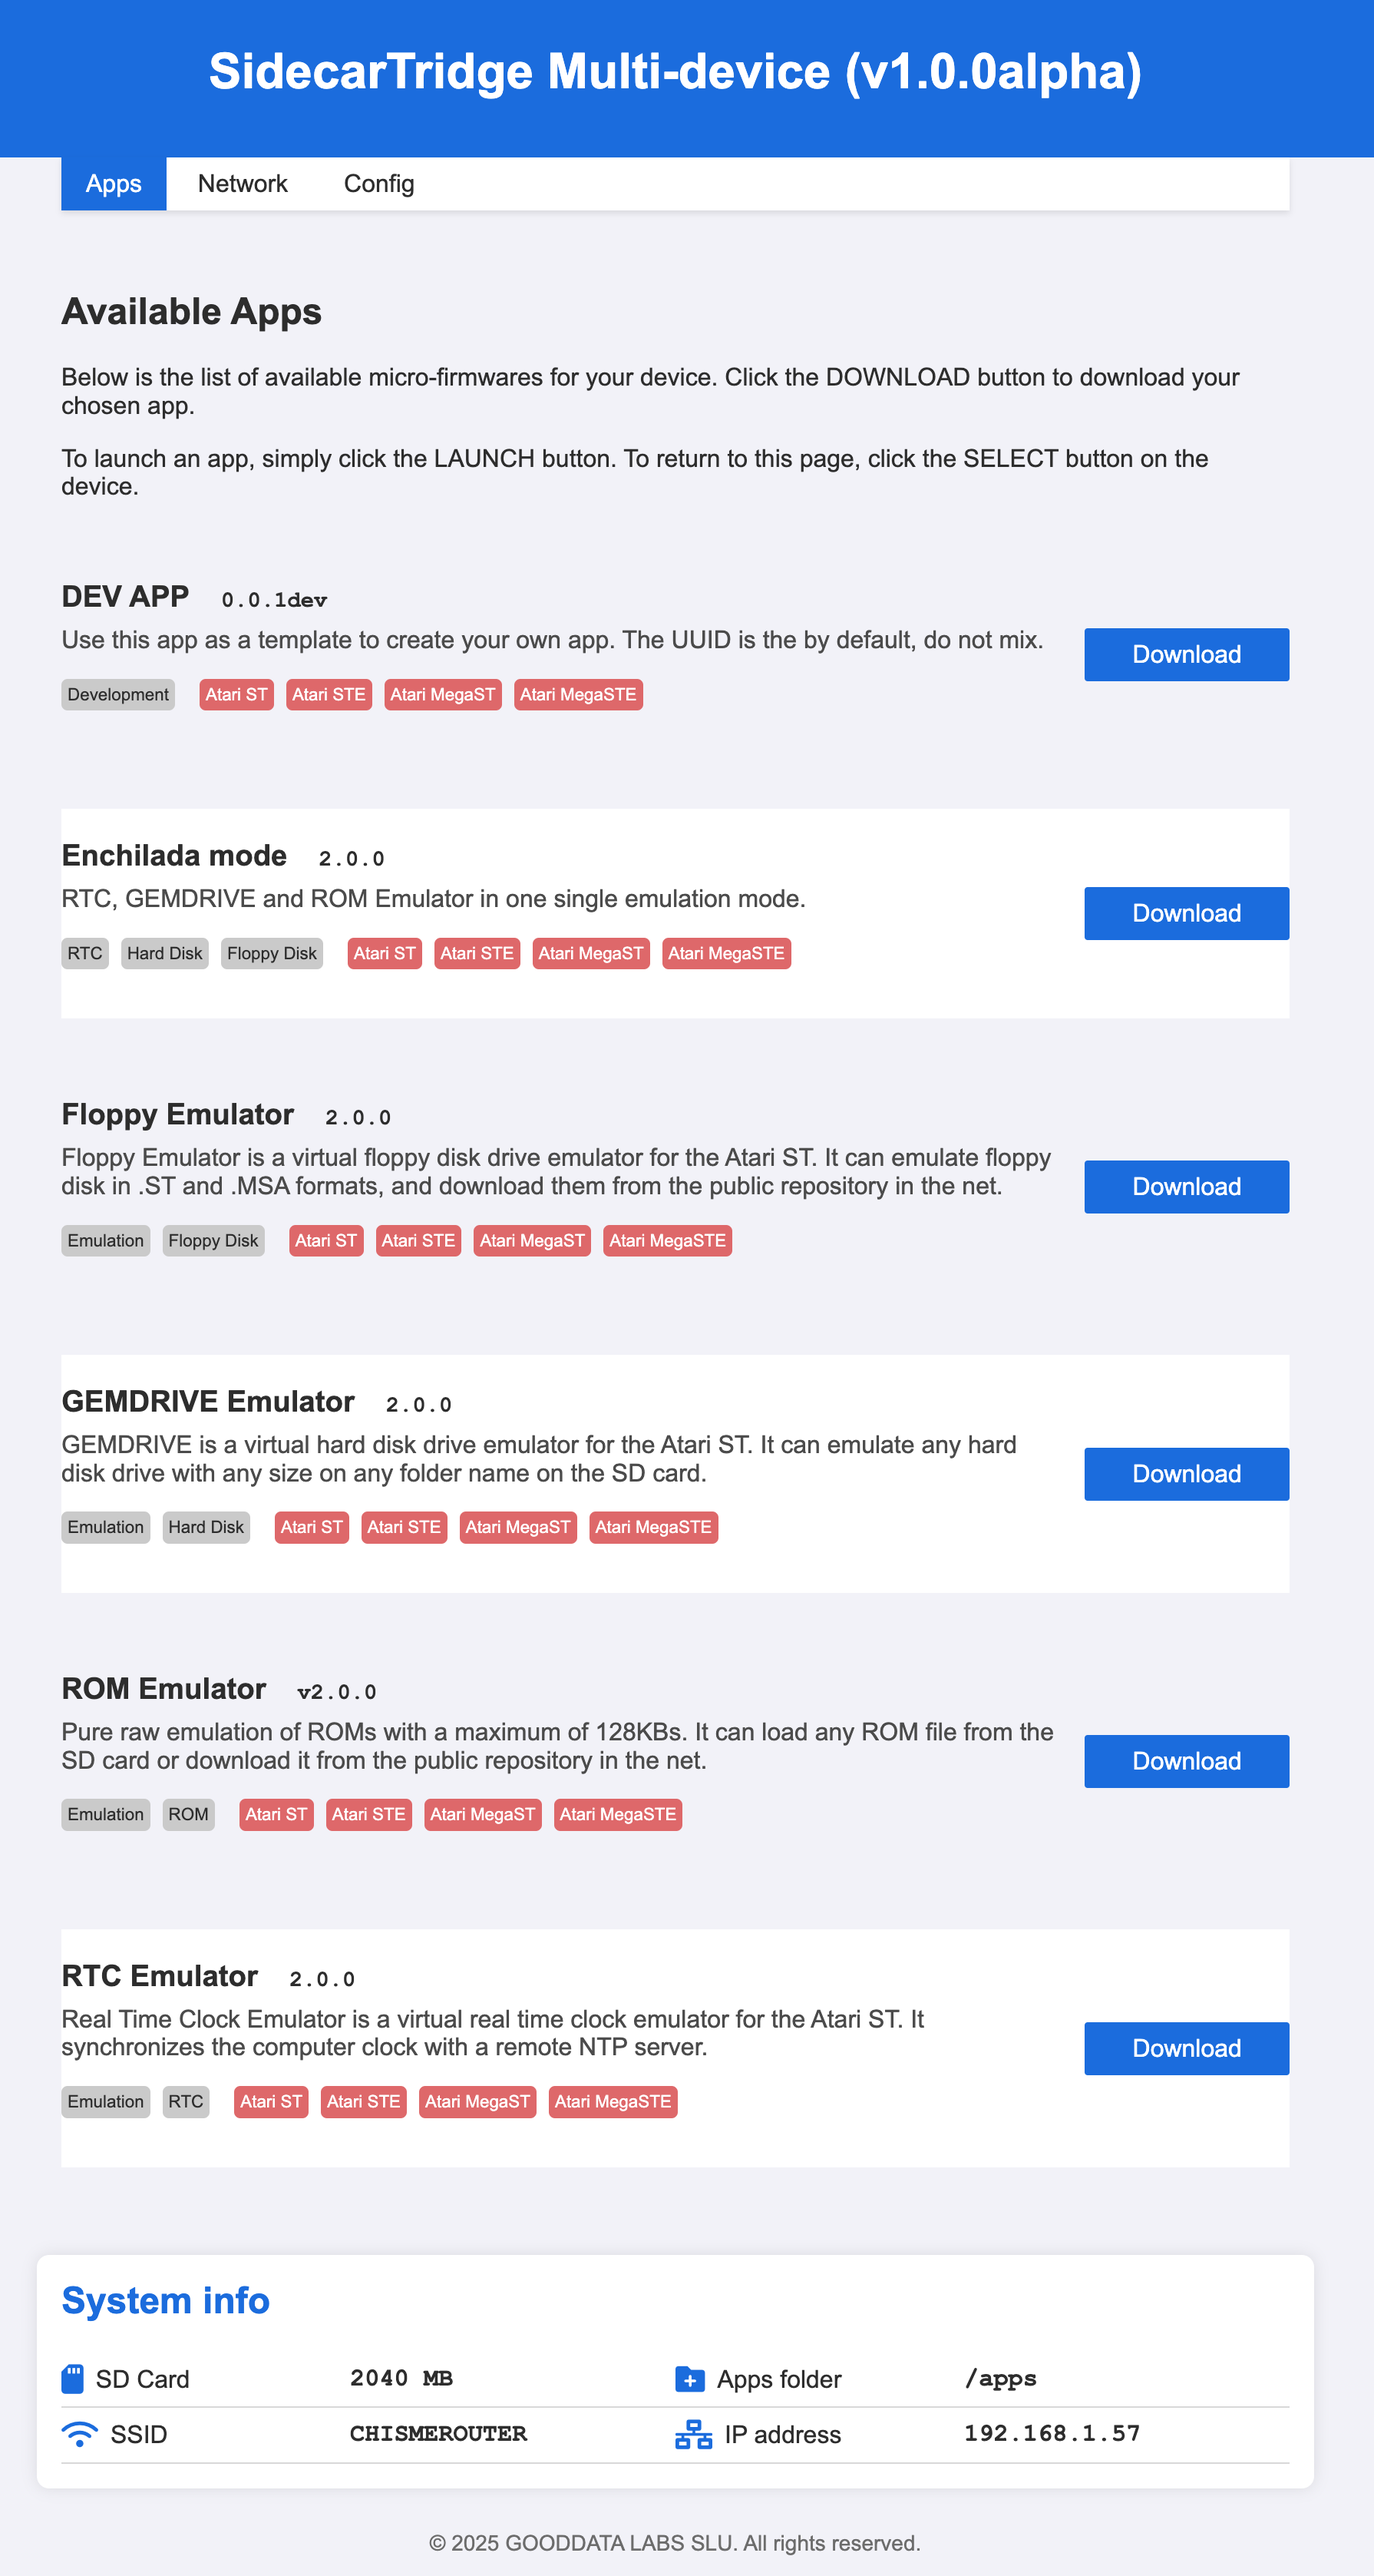
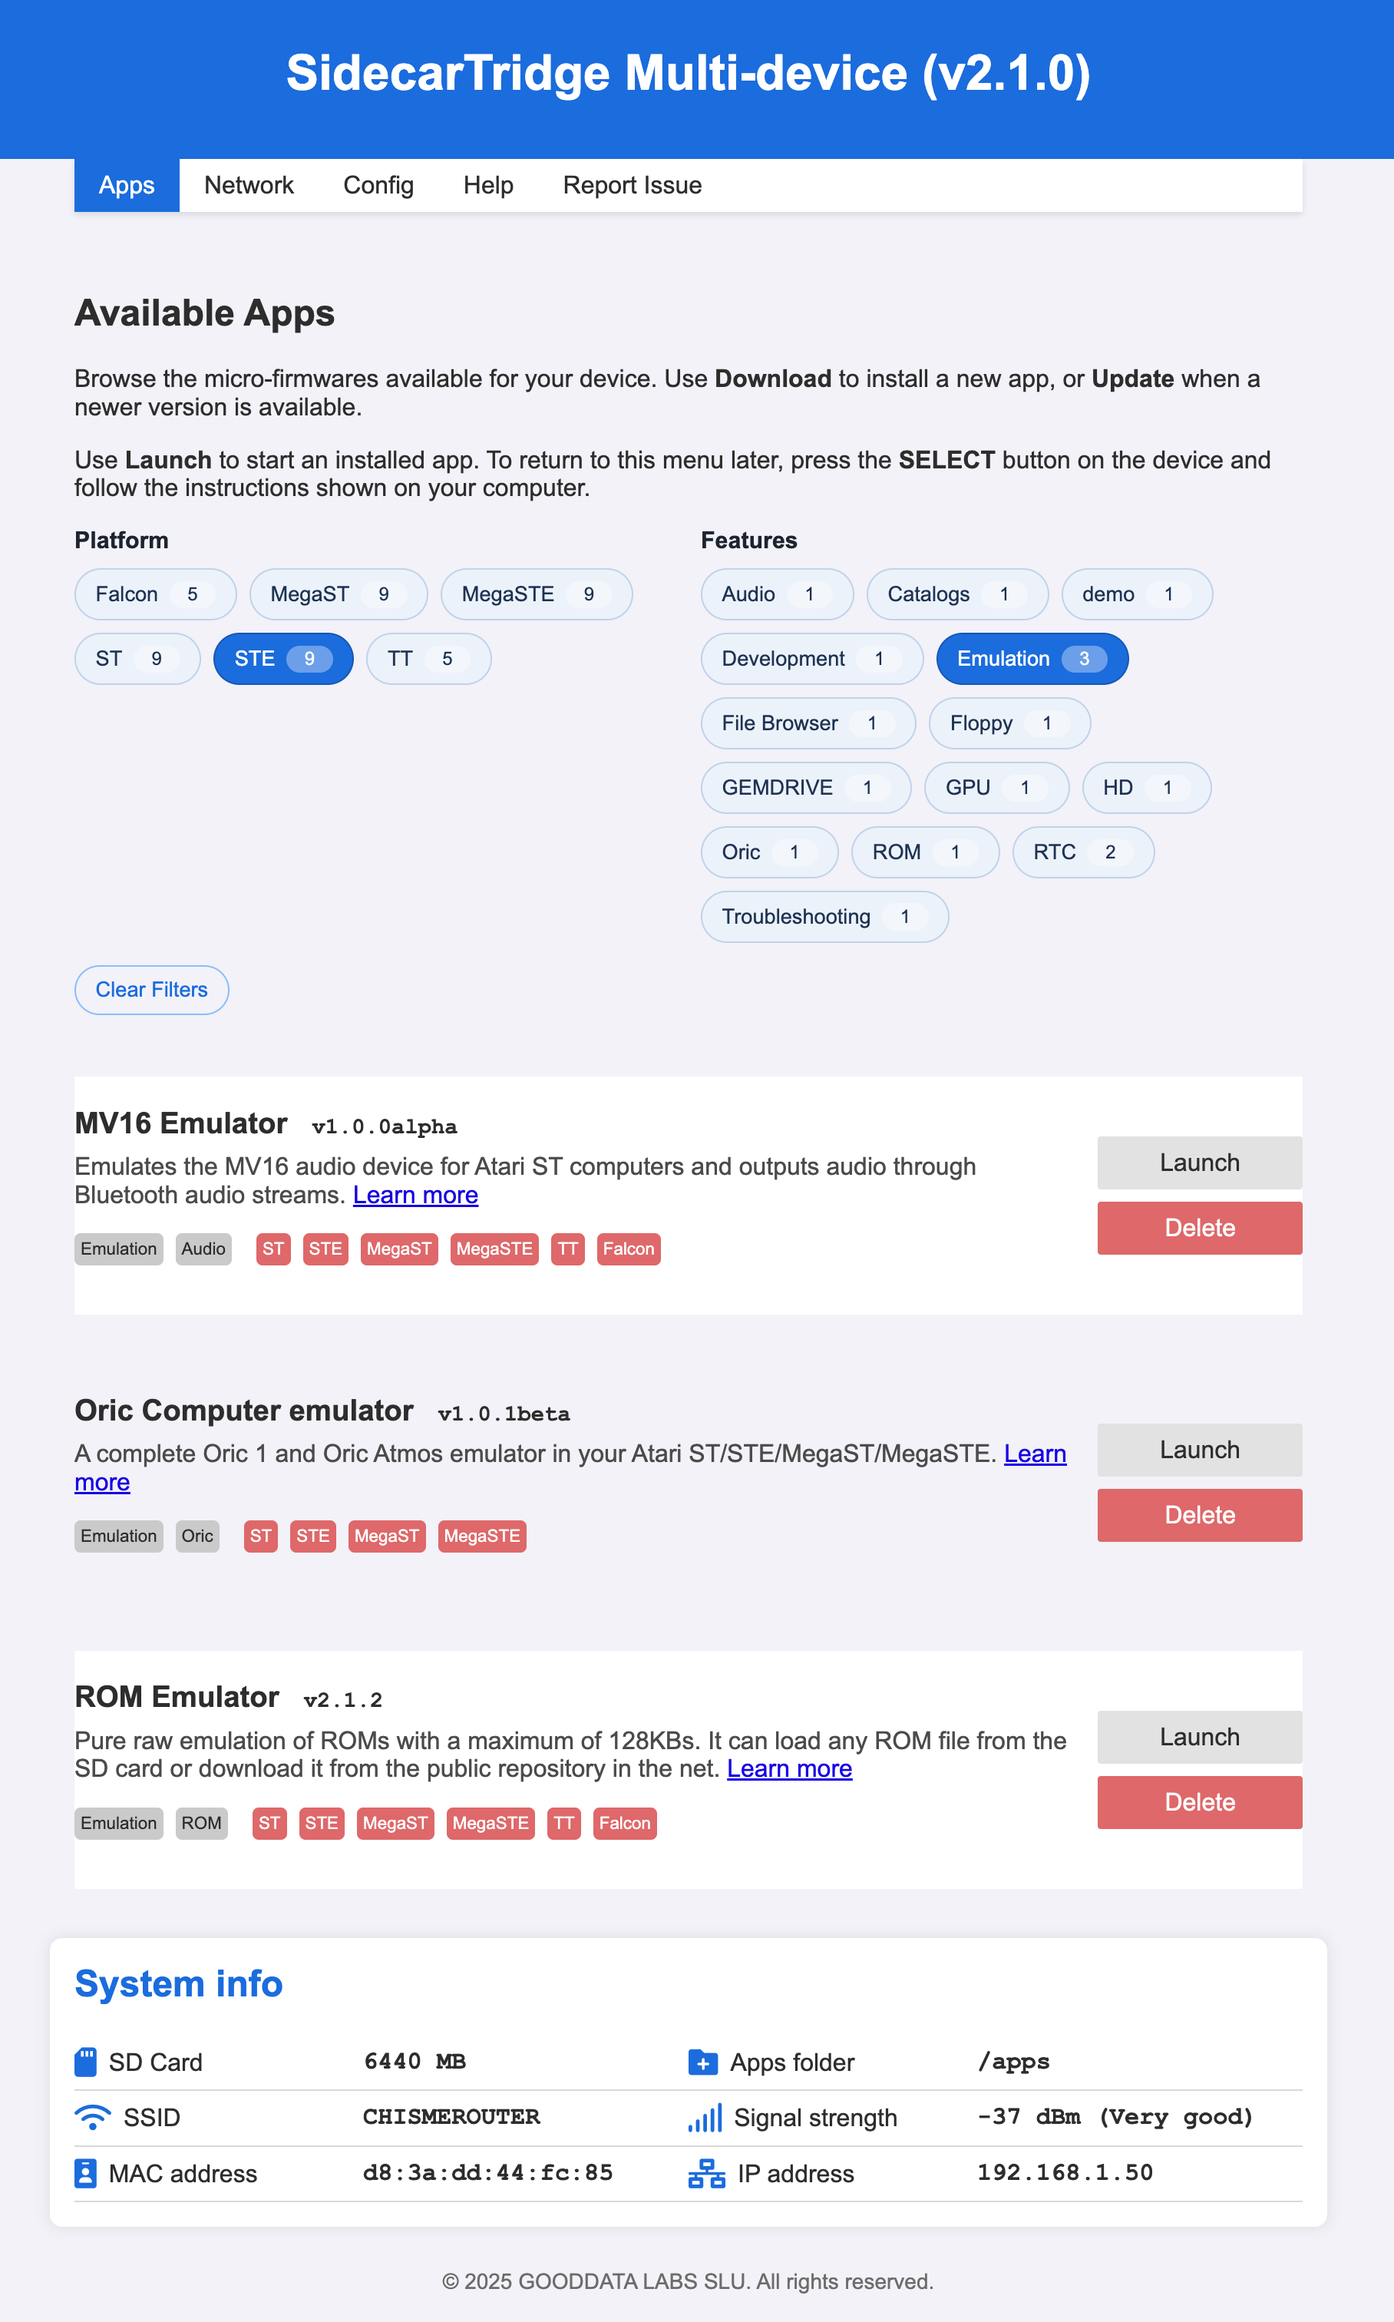
Update the images for v2.1.0 booster

diff --git a/sidecartridge-multidevice/userguide_v2.md b/sidecartridge-multidevice/userguide_v2.md
@@ -80,11 +80,11 @@ The Booster microfirmware app is now installed in the flash memory of the device
 
 To return to the Booster app, the user needs to use the command menu on the microfirmware app to do it, or press the SELECT button for more than 10 seconds and then power off and power on the device and the computer.
 
-### WiFi view
+### Network view
 
-The **WiFi view** shows the list of available WiFi networks and permits some basic network configuration options:
+The **Network view** shows the list of available WiFi networks and permits some basic network configuration options:
 
-![Booster Manager WiFi View](/sidecartridge-multidevice/assets/images/BOOSTER-MANAGER-WIFI-1.png)
+![Booster Manager Network View](/sidecartridge-multidevice/assets/images/BOOSTER-MANAGER-WIFI-1.png)
 
 - **Country**: The country code of the WiFi network. This is used to configure the WiFi module to use the correct channels and frequencies.
 - **Hostname**: The hostname of the device. This is used to identify the device on the network. By default is `sidecart`. 

diff --git a/sidecartridge-multidevice/microfirmwares/index.md b/sidecartridge-multidevice/microfirmwares/index.md
@@ -41,6 +41,8 @@ Starting with Booster v2.1.0 you can launch any microfirmware that is already do
 
 This offline-safe launcher is useful when the access point is down, the router blocks the device, or you just prefer not to open the web interface.
 
+![Image showing the terminal-based microfirmware launcher on the Atari ST, with instructions to press ESC to enter the menu and hold SHIFT to boot from GEMDOS](/sidecartridge-multidevice/assets/images/BOOSTER-TERMINAL-SELECTOR.png)
+
 ### Available Microfirmware Apps
 
 <div style="display: grid; grid-template-columns: repeat(auto-fit, minmax(280px, 1fr)); gap: 1.2rem; margin-top: 1rem;">
